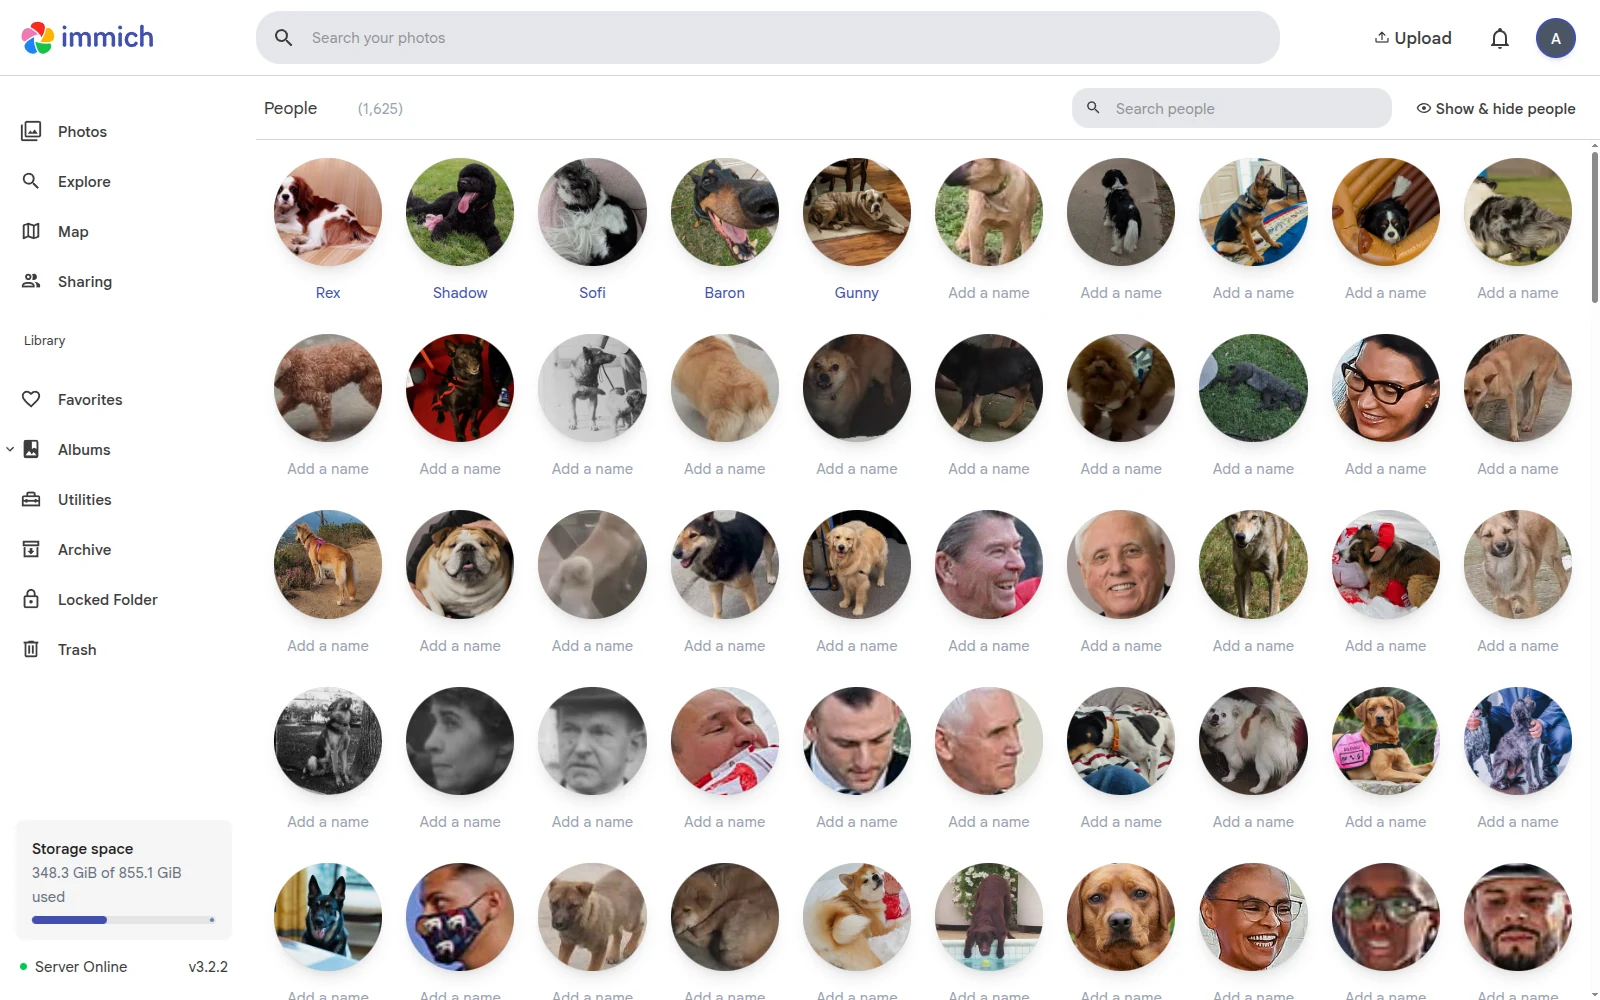
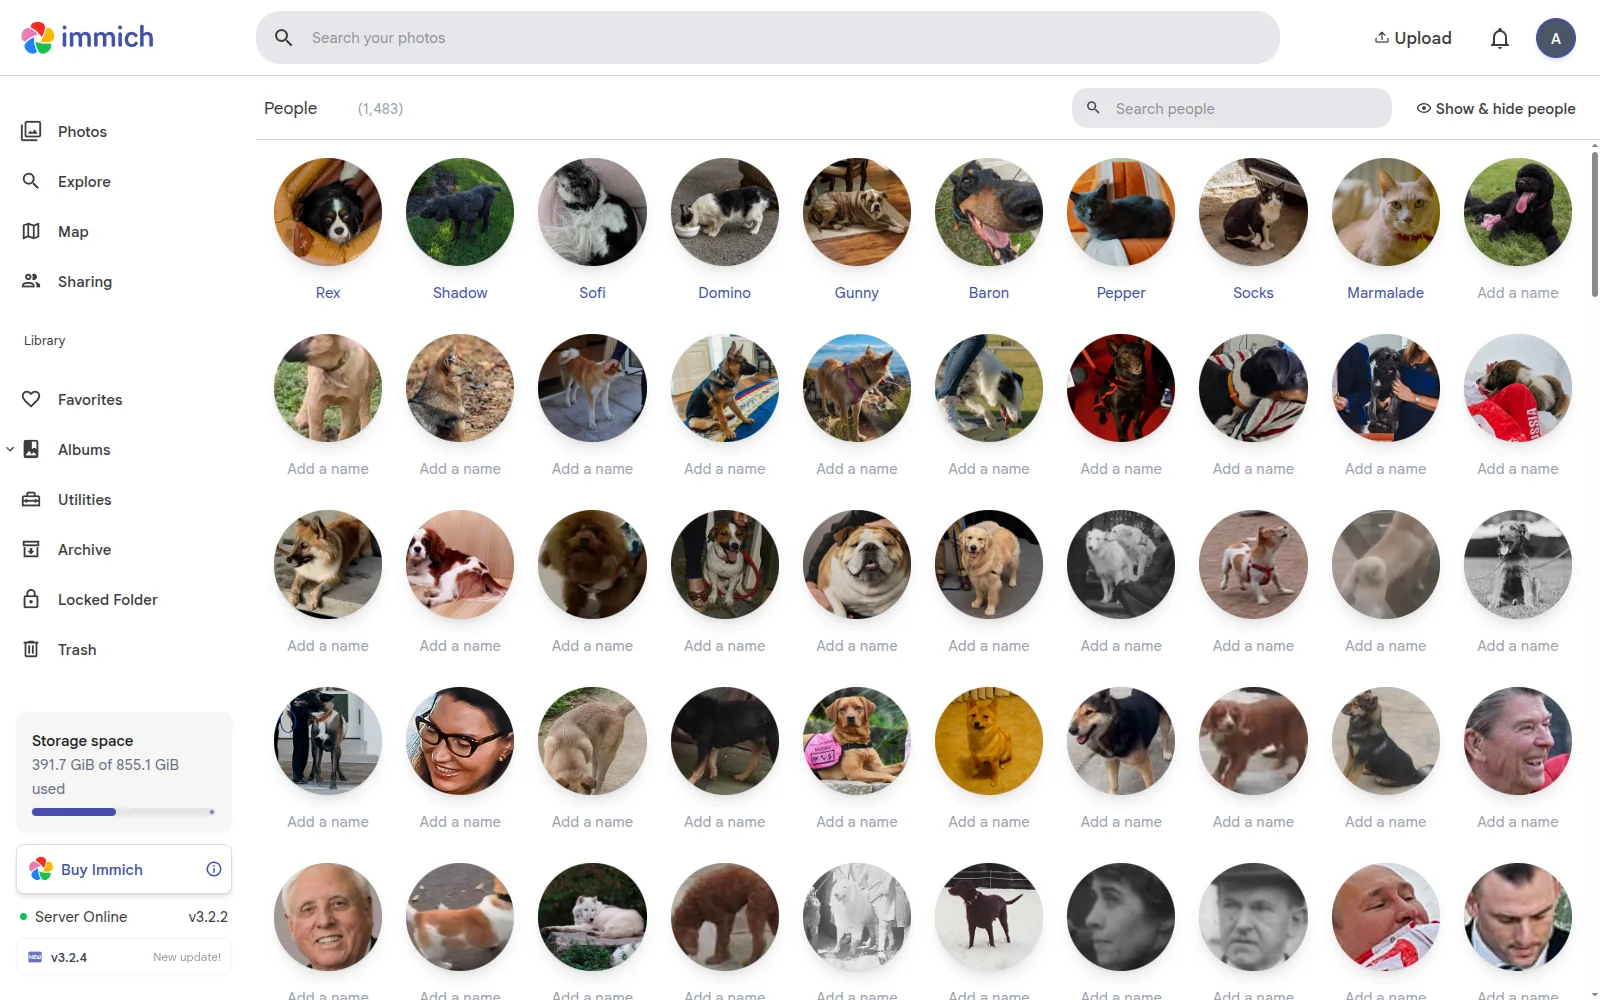
People page screenshot with cats
Taken on the demo library after upgrading it to 0.3.0.

Claude-Session: https://claude.ai/code/session_01YG3Y6cUcSg8jWsWLoNTMMv

diff --git a/sidecar/README.md b/sidecar/README.md
@@ -8,7 +8,7 @@ same as before.
 Dogs and cats appear as people, mixed in with the humans. There is no separate
 animals section.
 
-![Immich's People page: a grid of circular face thumbnails, the first five named dogs — Rex, Shadow, Sofi, Baron, Gunny — followed by rows of unnamed dog and human faces.](../docs/images/people-page.webp)
+![Immich's People page: a grid of circular face thumbnails. The first row is named dogs and cats — Rex, Shadow, Sofi, Domino, Gunny, Baron, Pepper, Socks, Marmalade — followed by rows of unnamed dog and human faces.](../docs/images/people-page.webp)
 
 **Testing in beta: dogs and cats.** Cats are new in 0.3.0. Other animals are not
 supported; wolves and foxes are often detected as dogs.
